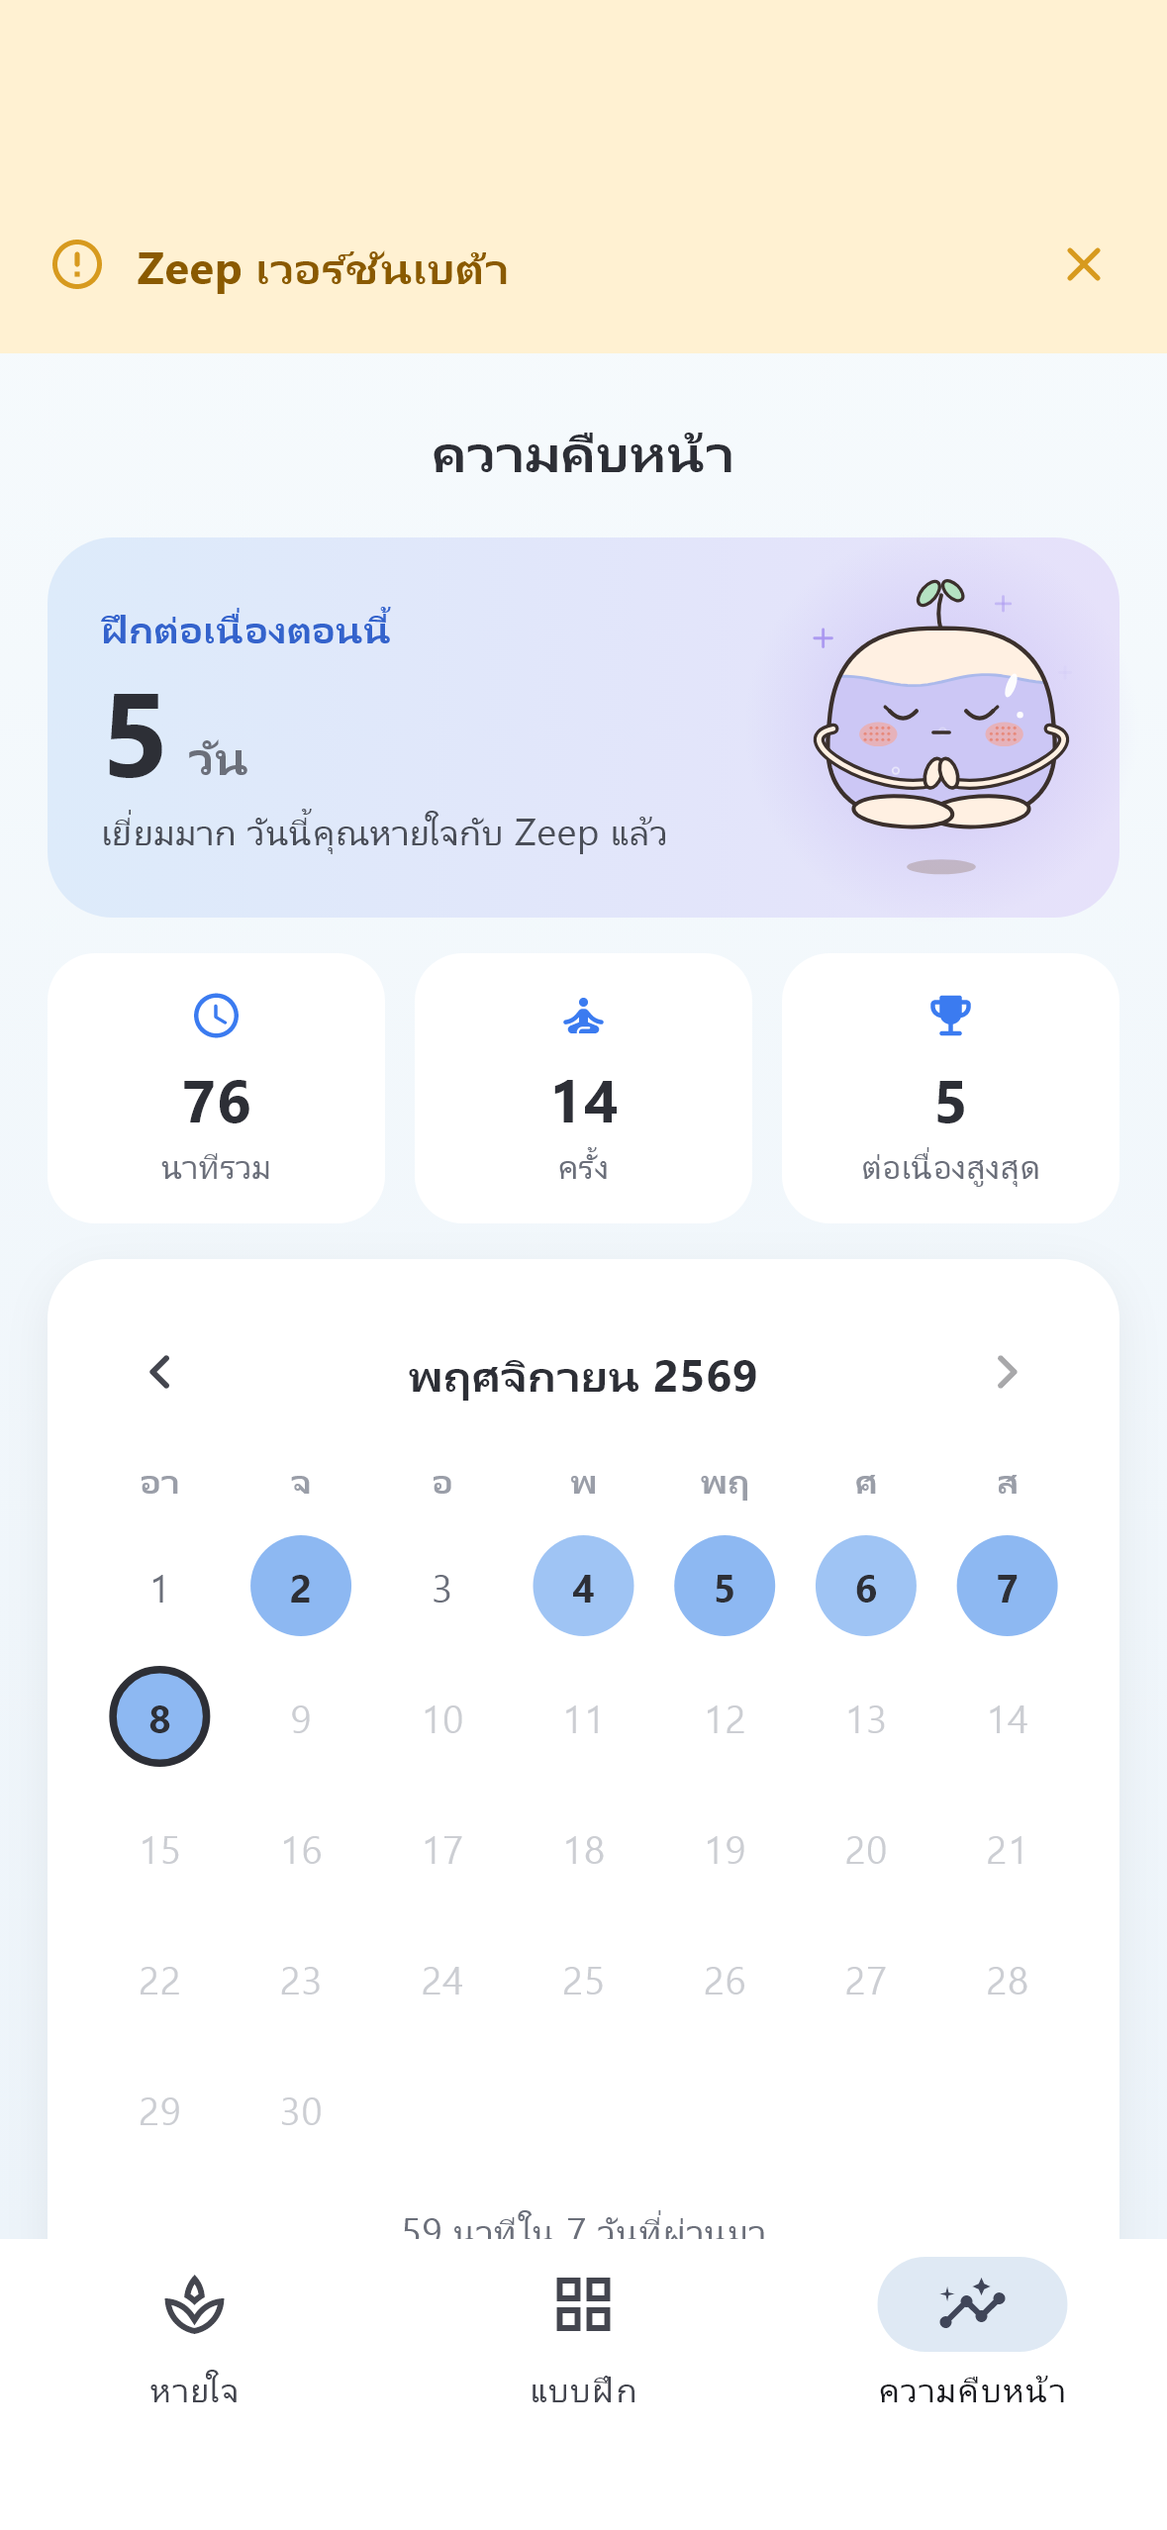
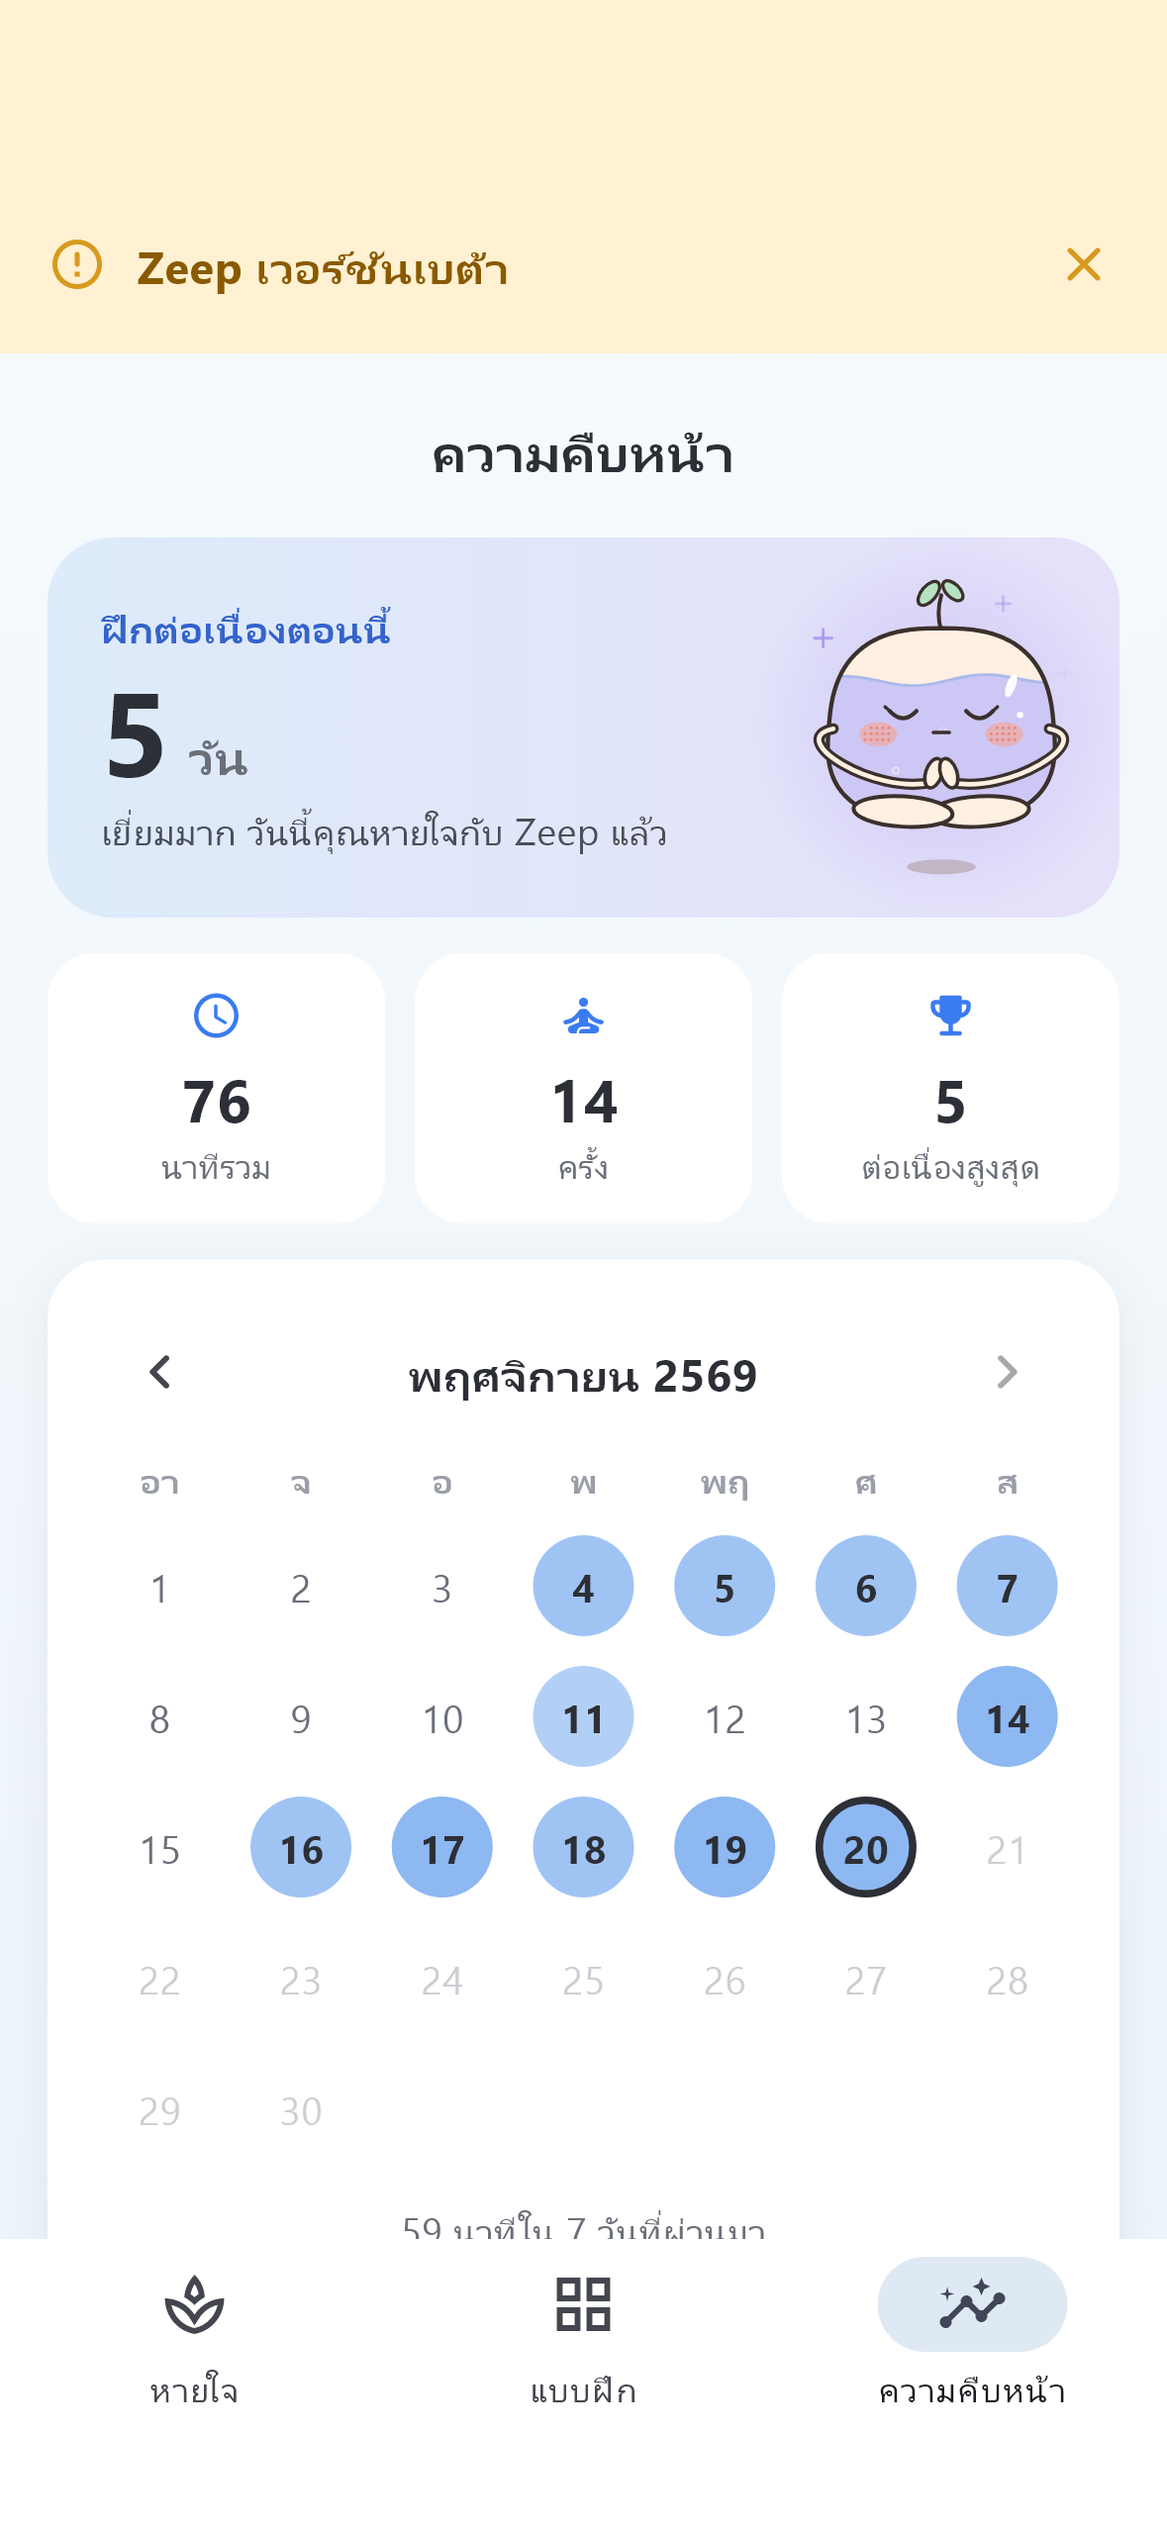
Fix QA findings from 1.3.0 (v1.3.1)
- Map pre-1.2 English exercise names in history to current localised names
- Show durations as minutes and seconds ("1 min 35 s")
- Keep the picked calendar month/day across tab switches until app close
- Explain the 30-second logging rule on empty days; drop unused strings
- Tests for SessionHistory.onDay and duration format; screenshots use a
  fixed date and add an empty-today screen

diff --git a/tool/screens_common.dart b/tool/screens_common.dart
@@ -13,13 +13,17 @@ import 'package:zeep_breathe/l10n/strings.dart';
 import 'package:zeep_breathe/main.dart';
 import 'package:zeep_breathe/settings/settings_controller.dart';
 
+/// Every screenshot run uses this "now" (a Friday late in the month), so the
+/// images do not depend on the day the tests run.
+final fixedNow = DateTime(2026, 11, 20, 22, 30);
+
 Future<AppController> makeApp() async {
   // ignore: invalid_use_of_visible_for_testing_member
   SharedPreferences.setMockInitialValues({});
   final settings = SettingsController();
   await settings.load();
   final music = MusicService()..available = true; // not initialised: silent in tests
-  return AppController(settings: settings, haptics: HapticsService(), music: music);
+  return AppController(settings: settings, haptics: HapticsService(), music: music)..clock = () => fixedNow;
 }
 
 Future<void> advance(WidgetTester t, double seconds) async {
@@ -37,7 +41,7 @@ void phone(WidgetTester t) {
 }
 
 void seedHistory(AppController app) {
-  final now = DateTime.now();
+  final now = fixedNow;
   // (days ago, hour, minute, seconds, mode id, completed)
   // ignore: invalid_use_of_visible_for_testing_member
   app.history.seed([
@@ -69,7 +73,7 @@ void seedHistory(AppController app) {
 
 /// Taps a day number in the Progress calendar (days ago from today).
 Future<void> tapCalendarDay(WidgetTester t, int daysAgo) async {
-  final now = DateTime.now();
+  final now = fixedNow;
   final d = DateTime(now.year, now.month, now.day - daysAgo);
   final cell = find.widgetWithText(InkResponse, '${d.day}');
   await t.ensureVisible(cell.first);
@@ -118,20 +122,36 @@ Future<void> tabsFlow(WidgetTester t, String p, S s) async {
   await t.drag(find.byType(ListView), const Offset(0, -2000));
   await advance(t, 0.5);
   await shot('screens/${p}12_progress_scrolled.png');
-  // another day with two sessions, then a day with none (same month only)
-  final now = DateTime.now();
-  if (now.day > 5) {
-    await tapCalendarDay(t, 1);
-    await advance(t, 0.3);
-    await t.drag(find.byType(ListView), const Offset(0, -2000));
-    await advance(t, 0.3);
-    await shot('screens/${p}16_timeline_yesterday.png');
-    await tapCalendarDay(t, 5);
-    await advance(t, 0.3);
-    await t.drag(find.byType(ListView), const Offset(0, -2000));
-    await advance(t, 0.3);
-    await shot('screens/${p}17_timeline_empty_day.png');
-  }
+  // another day with two sessions, then a day with none
+  await tapCalendarDay(t, 1);
+  await advance(t, 0.3);
+  await t.drag(find.byType(ListView), const Offset(0, -2000));
+  await advance(t, 0.3);
+  await shot('screens/${p}16_timeline_yesterday.png');
+  await tapCalendarDay(t, 5);
+  await advance(t, 0.3);
+  await t.drag(find.byType(ListView), const Offset(0, -2000));
+  await advance(t, 0.3);
+  await shot('screens/${p}17_timeline_empty_day.png');
+
+  // the picked day survives a tab switch
+  await t.tap(find.text(s.tabBreathe).last);
+  await advance(t, 0.3);
+  await t.tap(find.text(s.tabProgress).last);
+  await advance(t, 0.3);
+  expect(app.progressDay, DateTime(fixedNow.year, fixedNow.month, fixedNow.day - 5));
+
+  // the next morning: today has no sessions yet -> "Breathe now" button
+  app.clock = () => DateTime(fixedNow.year, fixedNow.month, fixedNow.day + 1, 8, 0);
+  app.progressDay = null;
+  app.setTab(HomeTab.breathe);
+  await advance(t, 0.2);
+  await t.tap(find.text(s.tabProgress).last);
+  await advance(t, 0.3);
+  await t.drag(find.byType(ListView), const Offset(0, -2000));
+  await advance(t, 0.3);
+  await shot('screens/${p}18_timeline_today_empty.png');
+  app.clock = () => fixedNow;
 
   // finish a 1-minute session -> streak badge on the finish card
   app.settings.update((x) => x.sessionMinutes = 1, persist: false);

diff --git a/lib/screens/progress_screen.dart b/lib/screens/progress_screen.dart
@@ -9,8 +9,7 @@ import '../ui/zeep_colors.dart';
 
 class ProgressScreen extends StatefulWidget {
   final AppController app;
-  final DateTime Function() clock;
-  const ProgressScreen({super.key, required this.app, this.clock = DateTime.now});
+  const ProgressScreen({super.key, required this.app});
 
   @override
   State<ProgressScreen> createState() => _ProgressScreenState();
@@ -19,19 +18,25 @@ class ProgressScreen extends StatefulWidget {
 class _ProgressScreenState extends State<ProgressScreen> {
   late DateTime _month;
 
-  /// Day shown in the timeline; null = today.
+  /// Day shown in the timeline; null = today. Both are mirrored in the
+  /// controller so switching tabs keeps them until the app closes.
   DateTime? _day;
+
+  void _setMonth(DateTime m) => setState(() => _month = widget.app.progressMonth = m);
+
+  void _setDay(DateTime d) => setState(() => _day = widget.app.progressDay = d);
 
   @override
   void initState() {
     super.initState();
-    final now = widget.clock();
-    _month = DateTime(now.year, now.month);
+    final now = widget.app.clock();
+    _month = widget.app.progressMonth ?? DateTime(now.year, now.month);
+    _day = widget.app.progressDay;
   }
 
   @override
   Widget build(BuildContext context) {
-    final now = widget.clock();
+    final now = widget.app.clock();
     final h = widget.app.history;
     final st = h.stats(now);
     final l = S.of(context);
@@ -75,7 +80,7 @@ class _ProgressScreenState extends State<ProgressScreen> {
                   children: [
                     IconButton(
                       tooltip: l.prevMonth,
-                      onPressed: () => setState(() => _month = DateTime(_month.year, _month.month - 1)),
+                      onPressed: () => _setMonth(DateTime(_month.year, _month.month - 1)),
                       icon: const Icon(Icons.chevron_left_rounded),
                     ),
                     Expanded(
@@ -89,19 +94,13 @@ class _ProgressScreenState extends State<ProgressScreen> {
                       tooltip: l.nextMonth,
                       onPressed: (_month.year == now.year && _month.month == now.month)
                           ? null
-                          : () => setState(() => _month = DateTime(_month.year, _month.month + 1)),
+                          : () => _setMonth(DateTime(_month.year, _month.month + 1)),
                       icon: const Icon(Icons.chevron_right_rounded),
                     ),
                   ],
                 ),
                 const SizedBox(height: 4),
-                _MonthGrid(
-                  month: _month,
-                  stats: st,
-                  today: today,
-                  selected: selected,
-                  onSelect: (d) => setState(() => _day = d),
-                ),
+                _MonthGrid(month: _month, stats: st, today: today, selected: selected, onSelect: _setDay),
                 const SizedBox(height: 10),
                 Text(
                   l.lastSevenDays(st.minutesThisWeek(now)),
@@ -519,6 +518,12 @@ class _EmptyDay extends StatelessWidget {
             isToday ? l.noSessionsToday : l.noSessionsThisDay,
             textAlign: TextAlign.center,
             style: const TextStyle(fontSize: 13.5, color: ZeepColors.textSoft),
+          ),
+          const SizedBox(height: 2),
+          Text(
+            l.loggingRule,
+            textAlign: TextAlign.center,
+            style: const TextStyle(fontSize: 12, color: ZeepColors.textFaint),
           ),
           if (isToday) ...[
             const SizedBox(height: 8),

diff --git a/test/history_test.dart b/test/history_test.dart
@@ -94,11 +94,40 @@ void main() {
     expect(exercises.firstWhere((e) => e.id == 'belly').phases, [Phase.inhale, Phase.exhale]);
   });
 
-  test('history names are localised; legacy names pass through', () {
+  test('history names are localised; legacy English names are mapped', () {
     expect(exerciseDisplayName('478', S.thai), 'หายใจแบบ 4-7-8');
     expect(exerciseDisplayName('478', S.en), '4-7-8 breathing');
     expect(exerciseDisplayName('default', S.thai), 'ค่าเริ่มต้น');
-    expect(exerciseDisplayName('Calm tide', S.en), 'Calm tide');
+    // saved before 1.2 as English names
+    expect(exerciseDisplayName('Calm tide', S.thai), 'ค่าเริ่มต้น');
+    expect(exerciseDisplayName('Box breathing', S.thai), 'หายใจสี่เหลี่ยม');
+    expect(exerciseDisplayName('4-7-8 Sleep', S.thai), 'หายใจแบบ 4-7-8');
+    expect(exerciseDisplayName('Custom', S.thai), 'กำหนดเอง');
+    expect(exerciseDisplayName('Morning wake', S.en), 'Custom');
+    expect(SessionRecord.fromJson({'t': '2026-11-01T08:00:00.000', 's': 60})!.exercise, 'custom');
     expect(S.thai.monthYear(DateTime(2026, 11)), 'พฤศจิกายน 2569');
+  });
+
+  test('durations show minutes and seconds', () {
+    expect(S.en.duration(45), '45 s');
+    expect(S.en.duration(60), '1 min');
+    expect(S.en.duration(95), '1 min 35 s');
+    expect(S.thai.duration(95), '1 นาที 35 วิ');
+    expect(S.thai.duration(600), '10 นาที');
+  });
+
+  test('onDay returns only that day, earliest first', () {
+    final h = SessionHistory();
+    // ignore: invalid_use_of_visible_for_testing_member
+    h.seed([
+      rec(DateTime(2026, 11, 20, 21, 50), 600),
+      rec(DateTime(2026, 11, 19, 23, 59), 120),
+      rec(DateTime(2026, 11, 20, 7, 15), 300),
+      rec(DateTime(2026, 11, 21, 0, 0), 60),
+      rec(DateTime(2026, 11, 20, 12, 30), 95),
+    ]);
+    final day = h.onDay(DateTime(2026, 11, 20, 18));
+    expect(day.map((r) => r.start.hour), [7, 12, 21]);
+    expect(h.onDay(DateTime(2026, 11, 18)), isEmpty);
   });
 }

diff --git a/lib/l10n/strings.dart b/lib/l10n/strings.dart
@@ -162,11 +162,6 @@ class S {
   String get prevMonth => _('Previous month', 'เดือนก่อน');
   String get nextMonth => _('Next month', 'เดือนถัดไป');
   String lastSevenDays(int m) => _('$m min in the last 7 days', '$m นาทีใน 7 วันที่ผ่านมา');
-  String get recentSessions => _('Recent sessions', 'การฝึกล่าสุด');
-  String get noSessions => _(
-    'Your sessions will show up here. Breathe for 30 seconds or more to log one.',
-    'การฝึกของคุณจะแสดงที่นี่ ฝึกตั้งแต่ 30 วินาทีขึ้นไปจึงจะถูกบันทึก',
-  );
   String get today => _('Today', 'วันนี้');
   // day timeline (Progress tab)
   List<String> get weekdayNames => th
@@ -190,8 +185,16 @@ class S {
       _('Tap a day in the calendar to see its sessions.', 'แตะวันในปฏิทินเพื่อดูการฝึกของวันนั้น');
   String daySemantics(int day, String month, int? mins, bool selected) =>
       '$day $month${mins != null ? ', ${minutes(mins)}' : ''}${selected ? _(', selected', ', เลือกอยู่') : ''}';
-  String get yesterday => _('Yesterday', 'เมื่อวาน');
-  String duration(int seconds) => seconds >= 60 ? minutes((seconds / 60).round()) : secs(seconds);
+
+  /// "1 min 35 s" / "1 นาที 35 วิ"; whole minutes stay "5 min".
+  String duration(int seconds) {
+    if (seconds < 60) return secs(seconds);
+    final m = seconds ~/ 60, r = seconds % 60;
+    return r == 0 ? minutes(m) : _('$m min $r s', '$m นาที $r วิ');
+  }
+
+  String get loggingRule =>
+      _('Sessions of 30 seconds or more are saved here.', 'การฝึกตั้งแต่ 30 วินาทีขึ้นไปจะถูกบันทึกไว้ที่นี่');
 
   List<String> get monthNames => th
       ? const [

diff --git a/lib/app_controller.dart b/lib/app_controller.dart
@@ -29,6 +29,13 @@ class AppController extends ChangeNotifier {
 
   Screen screen = Screen.setup;
   HomeTab tab = HomeTab.breathe;
+
+  /// Current time. Tests replace it so dates in screenshots are fixed.
+  DateTime Function() clock = DateTime.now;
+
+  /// Month and day picked in the Progress tab; kept while the app is open.
+  DateTime? progressMonth;
+  DateTime? progressDay;
   bool bannerVisible = true;
   DateTime _sessionStart = DateTime.now();
   bool _logged = false;
@@ -52,7 +59,7 @@ class AppController extends ChangeNotifier {
     engine.durations = settings.durations;
     engine.sessionLength = settings.sessionMinutes * 60.0;
     final ev = engine.start();
-    _sessionStart = DateTime.now();
+    _sessionStart = clock();
     _logged = false;
     screen = Screen.session;
     _handle(ev);
@@ -127,7 +134,7 @@ class AppController extends ChangeNotifier {
         completed: completed,
       ),
     );
-    lastStreak = history.stats(DateTime.now()).currentStreak;
+    lastStreak = history.stats(clock()).currentStreak;
   }
 
   void toggleMusic() => settings.update((s) => s.music = !s.music);

diff --git a/lib/exercises/exercises.dart b/lib/exercises/exercises.dart
@@ -105,15 +105,15 @@ String exerciseId(BreathDurations d) => exerciseFor(d)?.id ?? (d == defaultDurat
 /// Display name for the current durations.
 String exerciseLabel(BreathDurations d, S s) => exerciseDisplayName(exerciseId(d), s);
 
-/// Display name for an id stored in the history. Older entries stored an
-/// English name instead of an id; those are shown as they are.
+/// History entries saved before 1.2 stored an English exercise name instead
+/// of an id. Names whose rhythm still exists map to it; the rest are custom.
+const _legacyNames = {'Calm tide': 'default', 'Box breathing': 'box', '4-7-8 Sleep': '478'};
+
+/// Display name for an id stored in the history, in the current language.
 String exerciseDisplayName(String stored, S s) {
+  final id = _legacyNames[stored] ?? stored;
   for (final e in exercises) {
-    if (e.id == stored) return e.name(s);
+    if (e.id == id) return e.name(s);
   }
-  return switch (stored) {
-    'default' => s.defaultRhythm,
-    'custom' => s.customRhythm,
-    _ => stored,
-  };
+  return id == 'default' ? s.defaultRhythm : s.customRhythm;
 }

diff --git a/lib/history/session_history.dart b/lib/history/session_history.dart
@@ -38,7 +38,7 @@ class SessionRecord {
       start: t,
       seconds: (j['s'] as num?)?.toInt() ?? 0,
       breaths: (j['b'] as num?)?.toInt() ?? 0,
-      exercise: '${j['e'] ?? 'Custom'}',
+      exercise: '${j['e'] ?? 'custom'}',
       completed: j['c'] == true,
     );
   }

diff --git a/CHANGELOG.md b/CHANGELOG.md
@@ -14,6 +14,15 @@
 
 ---
 
+## 1.3.1 (build 5) · 2026-11-08 · branch `fix/1.3.1`
+
+**แก้ข้อสังเกตจาก QA ของ 1.3.0** (`T3.3`, `T3.4`)
+- ประวัติจากเวอร์ชันก่อน 1.2 แสดงชื่อโหมดตามภาษาเครื่อง: Calm tide → ค่าเริ่มต้น, Box breathing → หายใจสี่เหลี่ยม, 4-7-8 Sleep → หายใจแบบ 4-7-8, ชื่ออื่น → กำหนดเอง
+- เวลาฝึกแสดงเป็นนาทีกับวินาที เช่น "1 นาที 35 วิ" (เดิมปัดเป็น 2 นาที)
+- วันที่เลือกในปฏิทินจำไว้เมื่อสลับแท็บ จนกว่าจะปิดแอป
+- การ์ดวันที่ไม่ได้ฝึกบอกกติกา "ฝึกตั้งแต่ 30 วินาทีขึ้นไปจึงบันทึก"; ลบข้อความเก่าที่ไม่ได้ใช้
+- เทสต์: unit test ของ onDay และรูปแบบเวลา; ภาพหน้าจอใช้วันที่คงที่ (20 พ.ย. 2569) และเพิ่มภาพวันนี้ที่ยังไม่ได้ฝึก (`18_`)
+
 ## 1.3.0 (build 4) · 2026-11-08 · commit `44dddea`
 
 **Timeline รายวันในแท็บความคืบหน้า** (`T3.3`, `T3.4`)
